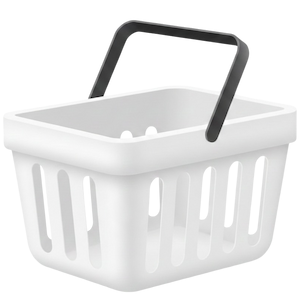
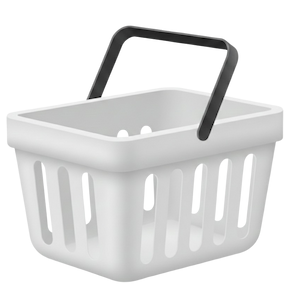
update

diff --git a/index.html b/index.html
@@ -420,7 +420,7 @@
         <div class="d-flex justify-content-center mb-3">
           <div class="">
             <img
-              src="assets/images/basket1.png"
+              src="assets/images/basket.png"
               width="170"
               height="170"
               alt=""
